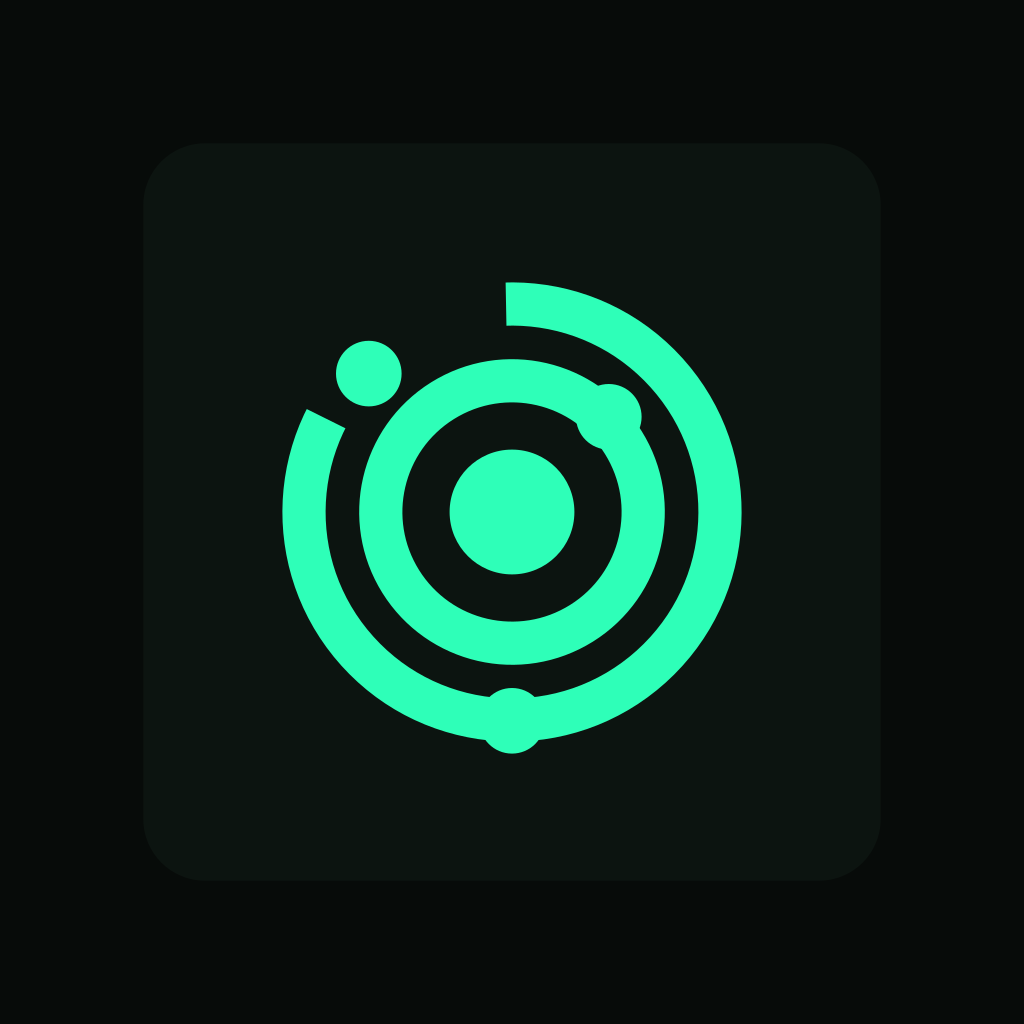
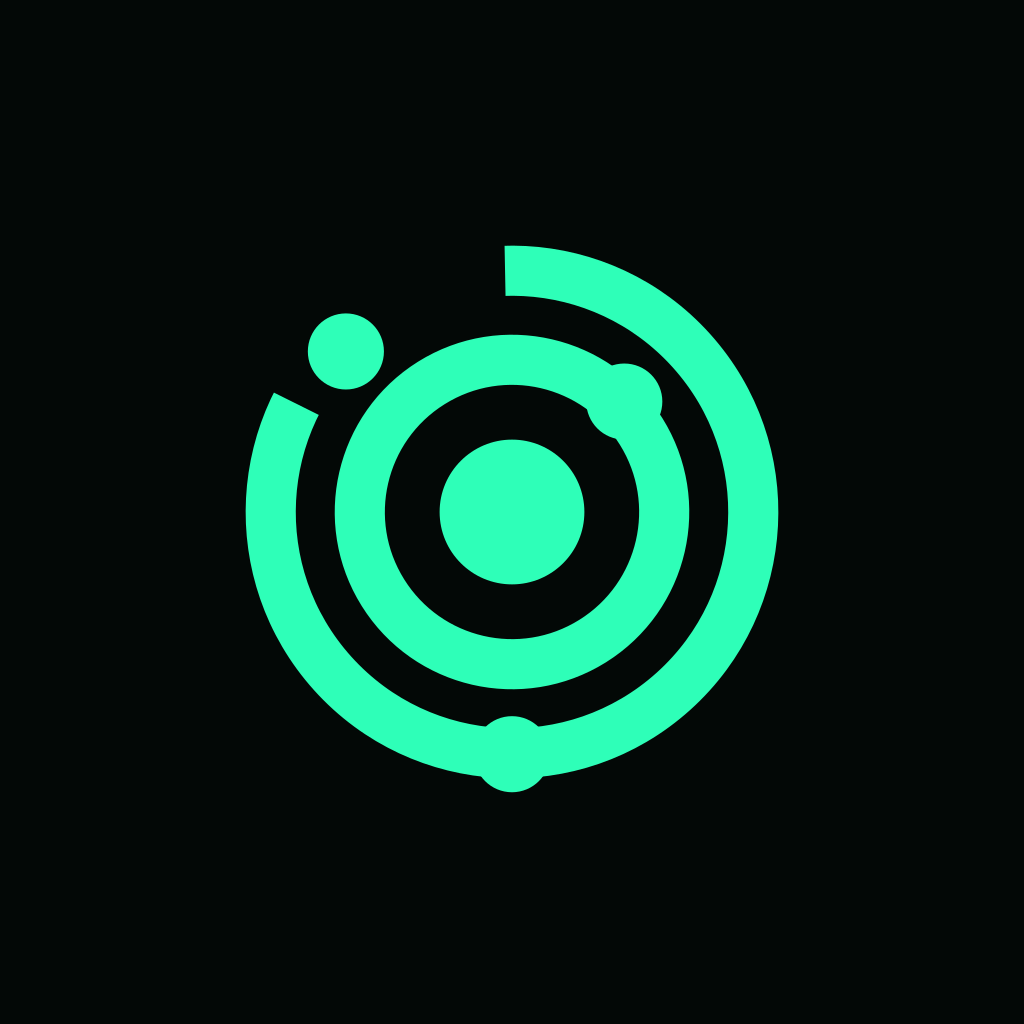
fix(splash): без плитки, зум с HTML и имя вместо фамилии
Иконки ровные на чёрном; анимация с первого кадра; «Приветствуем» не по фамилии; manifest-boot на v=5.

Changed region(s): [[0.2188, 0.2188, 0.7812, 0.7812]]

diff --git a/index.html b/index.html
@@ -2,17 +2,60 @@
 <html lang="ru" dir="ltr">
   <head>
     <meta charset="UTF-8" />
-    <link rel="icon" type="image/png" href="/icons/icon-192.png?v=4" />
+    <link rel="icon" type="image/png" href="/icons/icon-192.png?v=5" />
     <meta name="viewport" content="width=device-width, initial-scale=1, viewport-fit=cover, interactive-widget=resizes-content" />
     <script src="/manifest-boot.js"></script>
-    <meta name="theme-color" content="#070908" />
+    <meta name="theme-color" content="#030806" />
     <meta name="apple-mobile-web-app-capable" content="yes" />
     <meta name="apple-mobile-web-app-status-bar-style" content="black-translucent" />
     <meta name="apple-mobile-web-app-title" content="Ядро" />
-    <link rel="apple-touch-icon" href="/icons/icon-192.png?v=4" />
+    <link rel="apple-touch-icon" href="/icons/icon-192.png?v=5" />
     <title>Ядро</title>
+    <style>
+      html, body { margin: 0; height: 100%; background: #030806; }
+      #yadro-boot-splash {
+        position: fixed; inset: 0; z-index: 9999;
+        display: grid; place-items: center;
+        background: #030806; pointer-events: none;
+      }
+      #yadro-boot-splash__mark {
+        width: min(42vw, 168px); height: min(42vw, 168px);
+        color: #2effb8;
+        transform-origin: center;
+        animation: yadro-boot-zoom 1.15s cubic-bezier(0.22, 1, 0.36, 1) both;
+      }
+      #yadro-boot-splash__mark svg { display: block; width: 100%; height: 100%; }
+      @keyframes yadro-boot-zoom {
+        0% { transform: scale(2.55); }
+        70% { transform: scale(1.04); }
+        100% { transform: scale(1); }
+      }
+      @media (prefers-reduced-motion: reduce) {
+        #yadro-boot-splash__mark { animation: none; }
+      }
+    </style>
   </head>
   <body>
+    <div id="yadro-boot-splash" data-started-at="" aria-hidden="true">
+      <div id="yadro-boot-splash__mark">
+        <svg xmlns="http://www.w3.org/2000/svg" viewBox="0 0 32 32" fill="currentColor" aria-hidden="true">
+          <g fill="none" stroke="#2effb8" stroke-width="2.7" stroke-linecap="butt">
+    <circle cx="16" cy="16" r="13" pathLength="100" stroke-dasharray="36 14 36 14" transform="rotate(48 16 16)"/>
+    <circle cx="16" cy="16" r="8.2" pathLength="100" stroke-dasharray="78 22" transform="rotate(-32 16 16)"/>
+  </g>
+  <circle cx="16" cy="16" r="3.9" fill="#2effb8"/>
+  <circle cx="22.05" cy="10.05" r="2.05" fill="#2effb8"/>
+  <circle cx="7.05" cy="7.35" r="2.05" fill="#2effb8"/>
+  <circle cx="16" cy="29.05" r="2.05" fill="#2effb8"/>
+        </svg>
+      </div>
+    </div>
+    <script>
+      (function () {
+        var el = document.getElementById('yadro-boot-splash');
+        if (el) el.setAttribute('data-started-at', String(Date.now()));
+      })();
+    </script>
     <div id="root"></div>
     <script type="module" src="/src/main.jsx"></script>
   </body>

diff --git a/src/lib/welcomeSplashGreeting.js b/src/lib/welcomeSplashGreeting.js
@@ -1,18 +1,29 @@
 /**
  * Приветствие на стартовом splash: «Приветствуем, Дмитрий».
- * Без React. Имя — короткое обращение, не полное ФИО.
+ * Без React. Обращение — имя, не фамилия (у сотрудников в name часто только фамилия).
  */
 
-import {
-  extractGreetingNameFromClientName,
-  normalizeOutreachName,
-} from './trainer/trainerClientOutreachCore.js'
+import { normalizeOutreachName } from './trainer/trainerClientOutreachCore.js'
 
 /** Телефон / пустой логин — не подставляем в приветствие. */
 function looksLikePhone(raw) {
   const s = String(raw ?? '').trim()
   if (!s) return false
   return /^[\d+()\-\s.]{5,}$/.test(s) && !/[A-Za-zА-Яа-яЁё]/.test(s)
+}
+
+/**
+ * Типичные русские фамилии по окончанию (Семенов, Смирнова, Ковальский…).
+ * Имена вроде «Иван», «Мария», «Дмитрий» сюда не попадают.
+ * @param {string} token
+ */
+export function looksLikeRussianSurname(token) {
+  const t = String(token ?? '')
+    .trim()
+    .toLowerCase()
+    .replace(/ё/g, 'е')
+  if (t.length < 3) return false
+  return /(ов|ова|ев|ева|ин|ина|ын|ына|ский|ская|цкий|цкая|енко|ук|юк|ян|дзе)$/i.test(t)
 }
 
 /**
@@ -28,10 +39,35 @@ export function resolveWelcomeGreetingName(raw) {
     return normalizeOutreachName(s.split('@')[0])
   }
 
-  const fromFio = extractGreetingNameFromClientName(s)
-  if (fromFio) return fromFio
+  const parts = s.split(/\s+/).filter(Boolean)
+  if (!parts.length) return ''
 
-  return normalizeOutreachName(s.split(/\s+/)[0])
+  if (parts.length === 1) {
+    const only = parts[0]
+    // Одна фамилия в профиле сотрудника — лучше без имени, чем «Приветствуем, Семенов».
+    if (looksLikeRussianSurname(only)) return ''
+    return normalizeOutreachName(only)
+  }
+
+  const first = parts[0]
+  const second = parts[1]
+
+  // «Фамилия Имя …» (как карточка клиента) → имя.
+  if (looksLikeRussianSurname(first) && !looksLikeRussianSurname(second)) {
+    return normalizeOutreachName(second)
+  }
+  // «Имя Фамилия» → имя.
+  if (!looksLikeRussianSurname(first) && looksLikeRussianSurname(second)) {
+    return normalizeOutreachName(first)
+  }
+  // Оба / ни один не похожи на фамилию — берём второе (как в ФИО клуба).
+  if (!looksLikeRussianSurname(second)) {
+    return normalizeOutreachName(second)
+  }
+  if (!looksLikeRussianSurname(first)) {
+    return normalizeOutreachName(first)
+  }
+  return ''
 }
 
 /**

diff --git a/src/components/AppWelcomeSplash.jsx b/src/components/AppWelcomeSplash.jsx
@@ -1,6 +1,11 @@
+import { useEffect, useState } from 'react'
 import { useAuth } from '../context/AuthContext'
 import { OsMark } from './brand/OsMark.jsx'
 import { PRODUCT_BRAND_NAME } from '../lib/productBrand.js'
+import {
+  peekWelcomeBootSplash,
+  scheduleWelcomeBootSplashRemove,
+} from '../lib/welcomeSplashBoot.js'
 import {
   formatWelcomeGreeting,
   resolveWelcomeGreetingName,
@@ -9,6 +14,7 @@ import {
 /** Экран при старте сессии / во время входа вместо сухого «Загрузка…». */
 export function AppWelcomeSplash({ displayName: displayNameProp } = {}) {
   const { user } = useAuth()
+  const [fromBoot] = useState(() => peekWelcomeBootSplash().hadBoot)
   const fromProp = String(displayNameProp ?? '').trim()
   const isStatus = /восстанавливаем|обновляем/i.test(fromProp)
   const rawName = isStatus ? '' : fromProp || String(user?.name ?? '').trim()
@@ -17,11 +23,17 @@ export function AppWelcomeSplash({ displayName: displayNameProp } = {}) {
   const hint = isStatus ? fromProp : 'Открываем'
   const ariaLabel = `${PRODUCT_BRAND_NAME}. ${greetingLine}`
 
+  useEffect(() => {
+    const { hadBoot, startedAt } = peekWelcomeBootSplash()
+    if (!hadBoot) return undefined
+    return scheduleWelcomeBootSplashRemove({ startedAt })
+  }, [])
+
   return (
     <div className="app-loading-shell app-welcome-shell">
       <div className="app-welcome" role="status" aria-live="polite" aria-label={ariaLabel}>
         <div className="app-welcome__stage" aria-hidden>
-          <div className="app-welcome__mark">
+          <div className={`app-welcome__mark${fromBoot ? ' app-welcome__mark--from-boot' : ''}`}>
             <OsMark size={96} />
           </div>
         </div>

diff --git a/src/lib/welcomeSplashBoot.js b/src/lib/welcomeSplashBoot.js
@@ -1,0 +1,40 @@
+/**
+ * Мгновенный boot-splash в index.html (до React): тот же знак и зум.
+ * React снимает его после зума и не запускает зум второй раз.
+ */
+
+export const WELCOME_BOOT_ZOOM_MS = 1150
+
+const BOOT_ID = 'yadro-boot-splash'
+
+/** @returns {{ hadBoot: boolean, startedAt: number }} */
+export function peekWelcomeBootSplash() {
+  if (typeof document === 'undefined') return { hadBoot: false, startedAt: 0 }
+  const el = document.getElementById(BOOT_ID)
+  if (!el) return { hadBoot: false, startedAt: 0 }
+  const startedAt = Number(el.dataset.startedAt) || Date.now()
+  return { hadBoot: true, startedAt }
+}
+
+/** Убрать boot сразу (уход со splash без анимации). */
+export function discardWelcomeBootSplash() {
+  if (typeof document === 'undefined') return
+  document.getElementById(BOOT_ID)?.remove()
+}
+
+/**
+ * Снять boot после доигрывания зума (если он ещё на экране).
+ * @param {{ startedAt?: number }} [opts]
+ * @returns {() => void} cancel
+ */
+export function scheduleWelcomeBootSplashRemove(opts = {}) {
+  if (typeof document === 'undefined') return () => {}
+  const el = document.getElementById(BOOT_ID)
+  if (!el) return () => {}
+  const startedAt = Number(opts.startedAt) || Number(el.dataset.startedAt) || Date.now()
+  const left = Math.max(0, WELCOME_BOOT_ZOOM_MS - (Date.now() - startedAt))
+  const t = window.setTimeout(() => {
+    el.remove()
+  }, left)
+  return () => window.clearTimeout(t)
+}

diff --git a/src/styles/app-welcome.css b/src/styles/app-welcome.css
@@ -46,6 +46,11 @@
     welcome-mark-tilt 5.5s ease-in-out 1.15s infinite;
 }
 
+/* Зум уже сыграл в #yadro-boot-splash — не запускаем второй раз. */
+.app-welcome__mark--from-boot {
+  animation: welcome-mark-tilt 5.5s ease-in-out infinite;
+}
+
 .app-welcome__mark .os-mark__orbit-spin--outer,
 .app-welcome__mark .os-mark__orbit-spin--inner {
   transform-origin: center;
@@ -144,6 +149,7 @@
 
 @media (prefers-reduced-motion: reduce) {
   .app-welcome__mark,
+  .app-welcome__mark--from-boot,
   .app-welcome__mark .os-mark__orbit-spin--outer,
   .app-welcome__mark .os-mark__orbit-spin--inner,
   .app-welcome__greeting,

diff --git a/src/lib/productBrand.js b/src/lib/productBrand.js
@@ -47,7 +47,7 @@ export const REFERENCE_CLUB_NAME = 'FIT-CITY'
  * Версия ассетов знака/иконок — для сброса кэша PWA при смене логотипа.
  * Увеличивайте при смене геометрии знака (не при каждой смене имени).
  */
-export const PRODUCT_BRAND_ASSETS_VERSION = '4'
+export const PRODUCT_BRAND_ASSETS_VERSION = '5'
 
 /** Путь к иконке PWA с cache-bust */
 export function productBrandIconPath(size) {

diff --git a/src/main.jsx b/src/main.jsx
@@ -30,3 +30,10 @@ if (isSupabaseConfigured()) {
 createRoot(document.getElementById('root')).render(
   import.meta.env.PROD ? <App /> : <StrictMode><App /></StrictMode>,
 )
+
+/* Если splash не смонтировался — не оставляем boot навсегда. */
+window.setTimeout(() => {
+  import('./lib/welcomeSplashBoot.js')
+    .then((m) => m.discardWelcomeBootSplash())
+    .catch(() => {})
+}, 5000)

diff --git a/public/manifest-boot.js b/public/manifest-boot.js
@@ -26,6 +26,6 @@
   }
   var link = doc.createElement('link')
   link.rel = 'manifest'
-  link.href = '/manifest.json?v=4'
+  link.href = '/manifest.json?v=5'
   doc.head.appendChild(link)
 })(document, location.pathname, navigator.userAgent)

diff --git a/CHANGELOG.md b/CHANGELOG.md
@@ -9,7 +9,7 @@
 
 ## 2026-10
 
-- **Старт приложения — живое ядро:** знак сначала крупный (как иконка), потом зум вниз; минимум ~2 с, чтобы анимация не мелькала; «Приветствуем, …». Чёрный квадрат в начале — системный splash Android с иконкой PWA.
+- **Старт приложения — сразу анимация:** иконка PWA без «плитки»; зум знака с первого кадра HTML; «Приветствуем» по **имени**, не по фамилии (если в профиле только «Семенов» — просто «Приветствуем»).
 - **Авто-рацион по воскресеньям:** на экране питания — «Каждое воскресенье в 10:00». Если вес ушёл на 3 кг и больше — сами пересчитаем граммы и отправим рацион в приложение. Можно пропустить одно воскресенье. Тренеру приходит push «Рацион ушёл из‑за веса» → сразу в карточку клиента. [NUTRITION_AUTO.md](./docs/NUTRITION_AUTO.md).
 - **Клиент — скопировать тренировку текстом:** в окне тренировки тихий бургер ☰ → «Скопировать» — упражнения и подходы в буфер (удобно вставить в Whoop). [CLIENT_APP.md](./docs/CLIENT_APP.md).
 - **Ежедневник — при переносе видно точное время:** зажали запись и ведёте — слева в часах подсвечиваются минуты старта и конца (шаг 15 мин), как в Google Календаре. [TRAINER_SCHEDULE.md](./docs/TRAINER_SCHEDULE.md).

diff --git a/docs/BRAND_SYSTEM.md b/docs/BRAND_SYSTEM.md
@@ -144,7 +144,7 @@ node scripts/verify-product-brand.mjs
 
 | # | Экран | Проверить |
 |---|--------|-----------|
-| 1 | Splash | Системная иконка → наш знак с зумом вниз (≥~2 с, `useWelcomeSplashHold`); «Приветствуем, …»; без tagline / «ЯДРО» / овального glow |
+| 1 | Splash | Иконка без плитки + boot-зум в `index.html` → React «Приветствуем» (≥~2 с); без tagline / «ЯДРО» / овального glow |
 | 2 | Trainer home | Emerald; в шапке **клуб** + микро-Ядро |
 | 3 | Sales home | Cyan–teal; «Продажи» + клуб |
 | 4 | Admin home | Champagne; в шапке **клуб** + микро-Ядро |

diff --git a/docs/PWA.md b/docs/PWA.md
@@ -1,6 +1,6 @@
 # PWA — установка и обновление на планшете
 
-**Актуально:** 2026-10-16 (INC-2026-10-16-02: hard reset с первой попытки, без ложного «прервалось»). Инциденты «белый экран / старая версия / цикл login»: [RUNBOOK.md §4](./RUNBOOK.md). Конфиг: `vite.config.js` (`vite-plugin-pwa`).
+**Актуально:** 2026-10-17 (splash: иконки без плитки + boot-зум в `index.html` до React). Инциденты «белый экран / старая версия / цикл login»: [RUNBOOK.md §4](./RUNBOOK.md). Конфиг: `vite.config.js` (`vite-plugin-pwa`).
 
 ---
 
